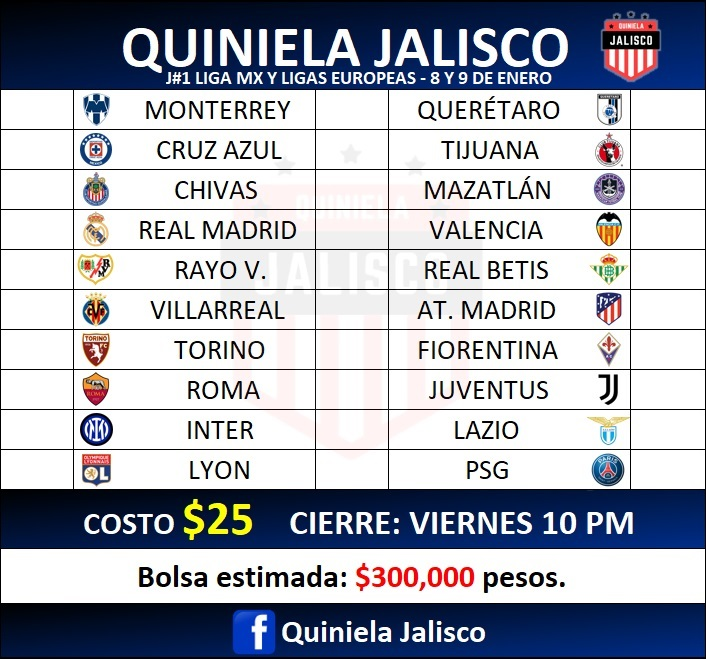
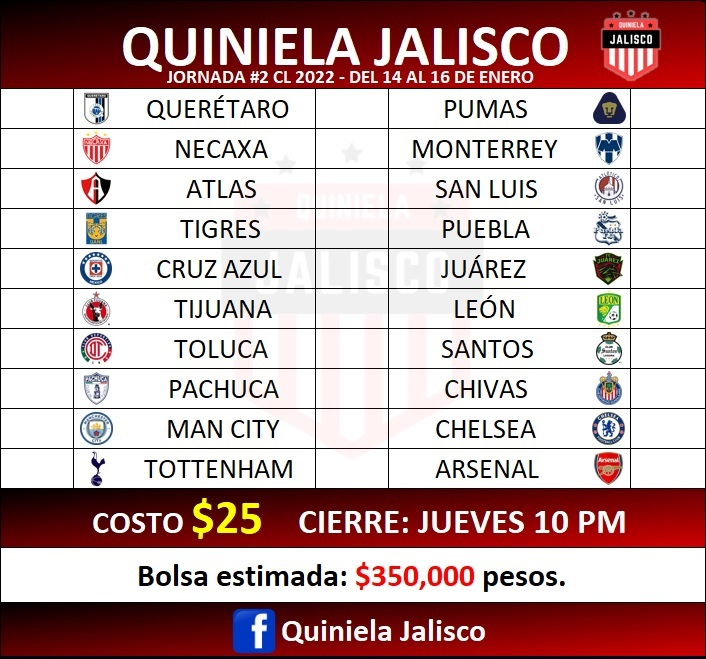
Jornada 2 C22

diff --git a/10/styles10.css b/10/styles10.css
@@ -89,8 +89,8 @@ h1{
     margin-top: 8%;
     border: solid 1px black;
     border-radius: 0 0 14px 14px;
-    background: -webkit-linear-gradient(0.04turn, rgb(0,0,0)  ,rgb(0,47,132) 80%);
-    background: linear-gradient(0.04turn, rgb(0,0,0)  ,rgb(0,47,132) 80%);
+    background: -webkit-linear-gradient(0.04turn, rgb(0,0,0)  ,rgb(207,0,0) 80%);
+    background: linear-gradient(0.04turn, rgb(0,0,0)  ,rgb(207,0,0) 80%);
     font-size: x-large;
 }
 
@@ -244,7 +244,7 @@ h6{
 }
 
 #bolsa{
-    color: yellow;
+    color: white;
     text-align: center;
     font-weight: bolder;
     width: 90%;
@@ -254,11 +254,11 @@ h6{
 
 
 #cantidad:before{
-    content:' fue suspendido, no contará y se jugará con 9 partidos, favor de llenarlo en tu quiniela con cualquier resultado.';
-    color: white;
+    content:'$350,000 pesos';
+    color: yellow;
 }
 
 
 #bolsatxt:before{
-    content:'Torino vs Fiorentina';
+    content:'Bolsa estimada: ';
 }
